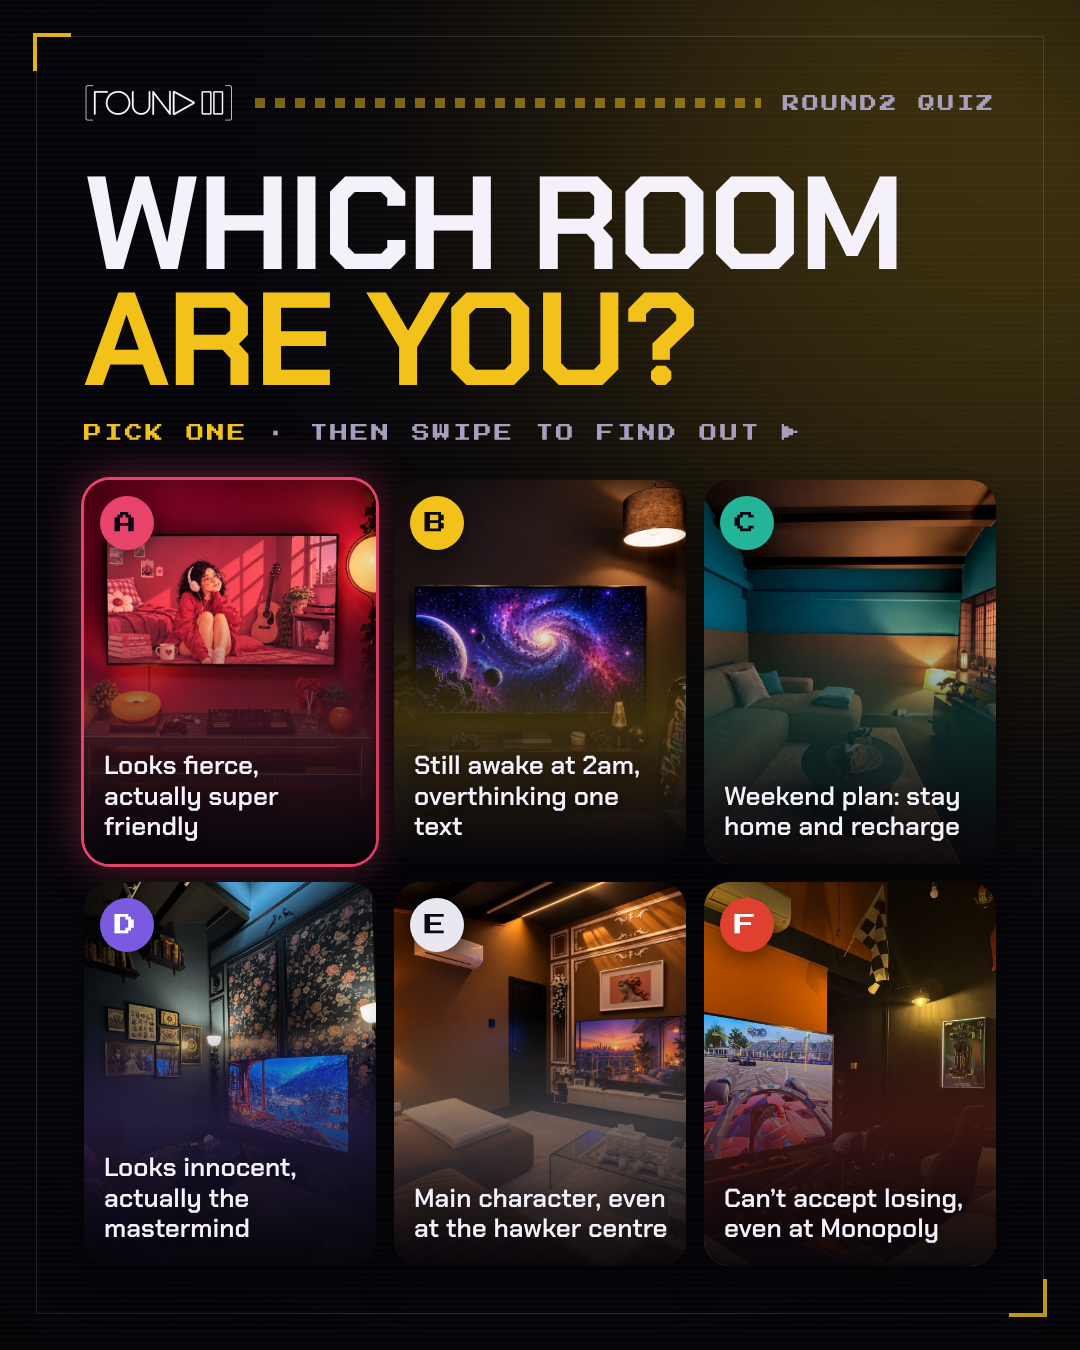
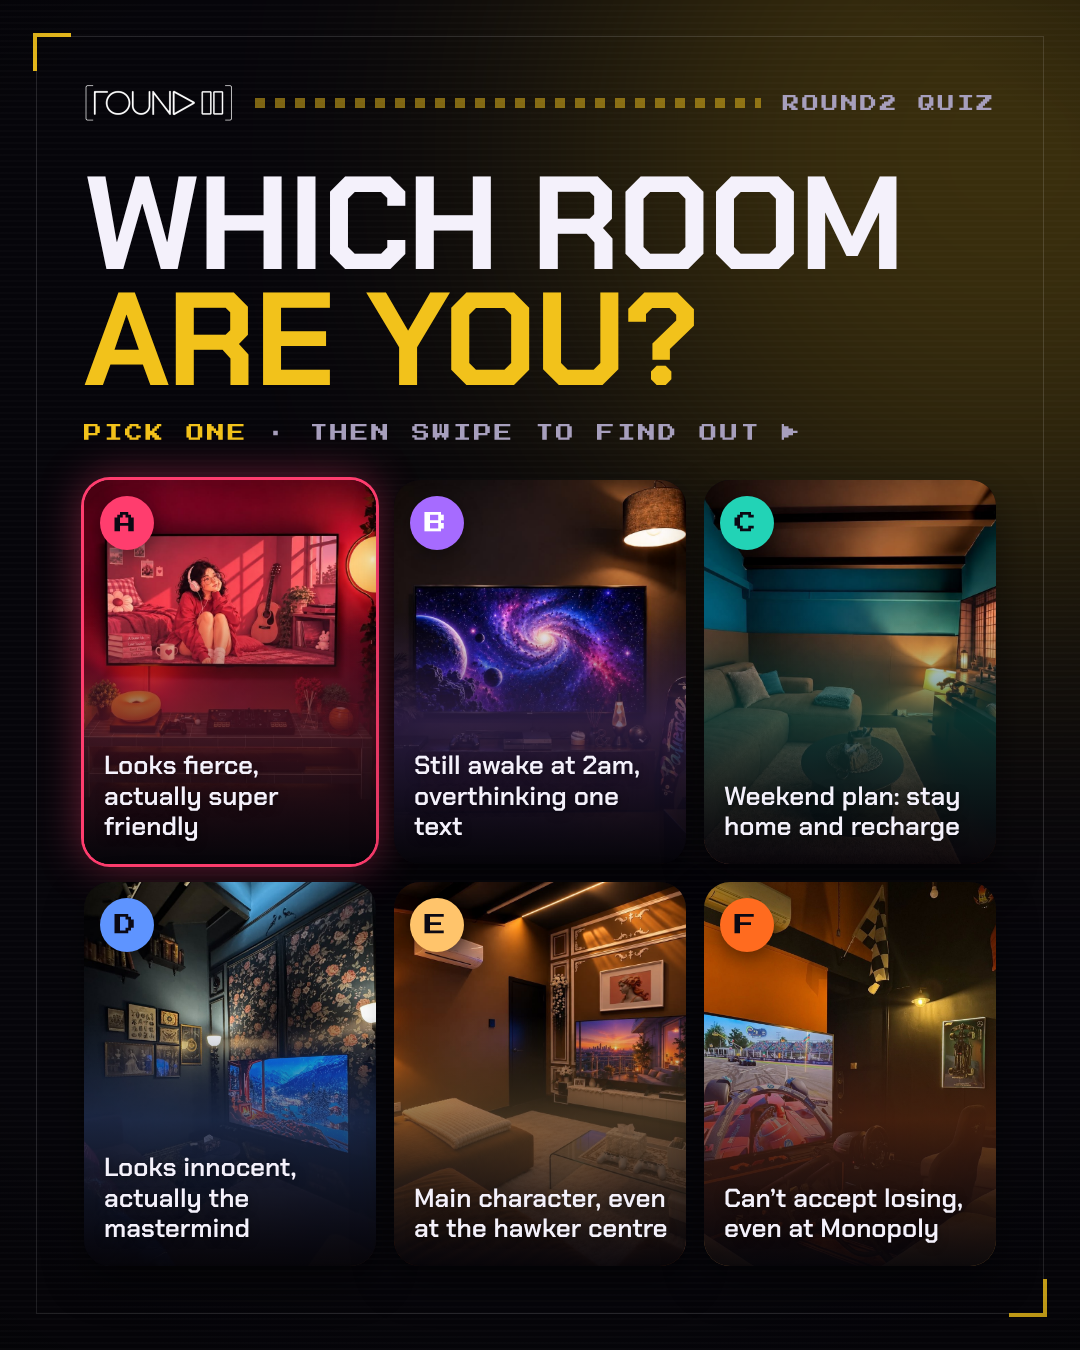
Room quiz: room colours tuned to each photo so they pop
Claude-Session: https://claude.ai/code/session_01PDkwSCLDYKchcH27nujJvW

diff --git a/marketing/ig-room-quiz/index.html b/marketing/ig-room-quiz/index.html
@@ -134,13 +134,14 @@ const QUIZ = [
 ];
 /* =================================================================== */
 
+// Post colours are tuned to each room photo so they pop on Instagram (the site's room colours are flatter on photos).
 const ROOMS = {
-  Vale:        { tier:'Netflix room', c:'#E8436A', ink:'#0b0914', spec:'65" TV · PS4 · 1–3 pax' },
-  Scarlett:    { tier:'Netflix room', c:'#F2C21B', ink:'#0b0914', spec:'65" TV · PS4 · 1–3 pax' },
-  Kai:         { tier:'Deluxe room',  c:'#24B49A', ink:'#0b0914', spec:'75" TV · PS4 Pro · 1–4 pax' },
-  Bella:       { tier:'Deluxe room',  c:'#7A5BE0', ink:'#ffffff', spec:'75" TV · PS4 Pro · 1–4 pax' },
-  Atlas:       { tier:'Deluxe room',  c:'#E9E7EF', ink:'#0b0914', spec:'75" TV · PS4 Pro · 1–5 pax' },
-  Maximillion: { tier:'VIP room',     c:'#E0402F', ink:'#ffffff', spec:'85" TV · racing sim · 1–6 pax' },
+  Vale:        { tier:'Netflix room', c:'#FF3D6E', ink:'#0b0914', spec:'65" TV · PS4 · 1–3 pax' },
+  Scarlett:    { tier:'Netflix room', c:'#A66BFF', ink:'#ffffff', spec:'65" TV · PS4 · 1–3 pax' },
+  Kai:         { tier:'Deluxe room',  c:'#22D3B6', ink:'#0b0914', spec:'75" TV · PS4 Pro · 1–4 pax' },
+  Bella:       { tier:'Deluxe room',  c:'#5E94FF', ink:'#0b0914', spec:'75" TV · PS4 Pro · 1–4 pax' },
+  Atlas:       { tier:'Deluxe room',  c:'#FFC46B', ink:'#0b0914', spec:'75" TV · PS4 Pro · 1–5 pax' },
+  Maximillion: { tier:'VIP room',     c:'#FF6B1F', ink:'#0b0914', spec:'85" TV · racing sim · 1–6 pax' },
 };
 const STREAM = { 'Netflix room':'Netflix + Prime', 'Deluxe room':'Netflix + Prime + HBO Max', 'VIP room':'Netflix + Prime + HBO Max' };
 
